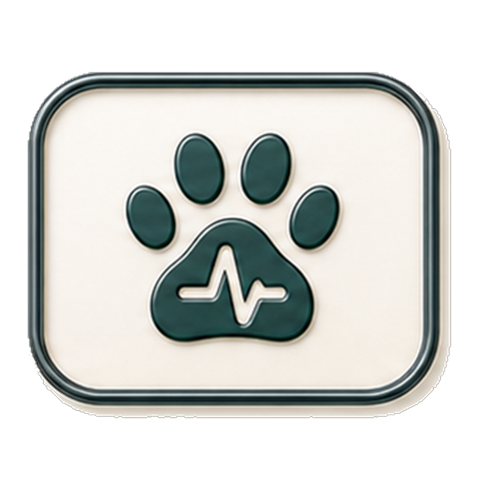
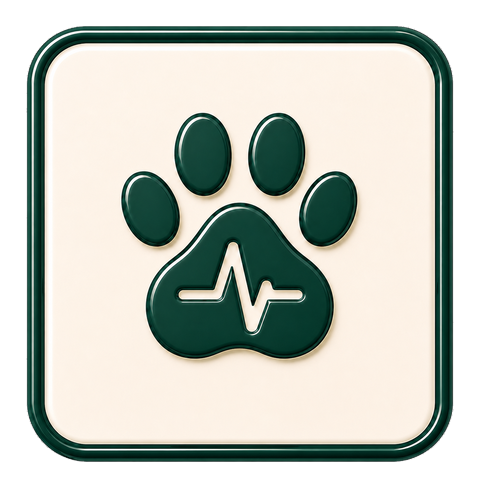
feat(hub): lote 2 COMPLETO (20/20 ceramicos) — ambientes, gestacao, brinquedos, casos-reais e conceitos integrados; pets-hub regenerado em tile quadrado; molduras grossas regeneradas (utensilios, disp-eletronicos, casos-reais); alinhamento dos tiles ancorado no topo (labels 1vs2 linhas); scale 1.3 r

diff --git a/screens/Education/KnowledgeHubScreen.js b/screens/Education/KnowledgeHubScreen.js
@@ -40,13 +40,13 @@ const FEATURED_ARTICLES = [...MICRO_BLOG_ARTICLES].sort(() => 0.5 - Math.random(
 // estilo 3D cerâmico da Home, símbolo solto em fundo transparente.
 // ─────────────────────────────────────────────────────────────────────────
 const PICTOGRAMS = {
-    // Seção 1 — Pessoas & Contexto (lote 2 em andamento: cerâmicos
-    // substituindo os antigos de traço P&B um a um)
+    // Seção 1 — Pessoas & Contexto (lote 2 completo: todos cerâmicos,
+    // normalizados no padrão condo-safety — cobertura 88.5%, aspecto 0.98)
     seguranca_idade: require('../../assets/illustrations/education-pictograms/pictogram-familia-fases.png'),
-    ambientes:       require('../../assets/illustrations/home-pictograms/icone_planta_baixa_ilustrativa.png'),
-    gestante_segura: require('../../assets/illustrations/home-pictograms/icone_gestacao_casa.png'),
-    pets:            require('../../assets/illustrations/education-pictograms/pictogram-pets-hub.png'), // cerâmico da Home, cópia normalizada (88.5%)
-    brinquedos_hub:  require('../../assets/illustrations/home-pictograms/icone_brinquedos_sem_casa.png'),
+    ambientes:       require('../../assets/illustrations/education-pictograms/pictogram-ambientes.png'),
+    gestante_segura: require('../../assets/illustrations/education-pictograms/pictogram-gestacao.png'),
+    pets:            require('../../assets/illustrations/education-pictograms/pictogram-pets-hub.png'),
+    brinquedos_hub:  require('../../assets/illustrations/education-pictograms/pictogram-brinquedos.png'),
     // Seções 2-5 — lote 1 do plano (15 assets). Descomentar conforme gerados:
     utensilios_rev:   require('../../assets/illustrations/education-pictograms/pictogram-utensilios-rev.png'),
     eletro_rev:       require('../../assets/illustrations/education-pictograms/pictogram-eletro-rev.png'),
@@ -65,7 +65,7 @@ const PICTOGRAMS = {
     guias_equipamentos: require('../../assets/illustrations/education-pictograms/pictogram-guias-equipamentos.png'),
 };
 const REAL_CASES_PICTOGRAM = require('../../assets/illustrations/education-pictograms/pictogram-casos-reais.png');
-const CONCEPTS_PICTOGRAM = require('../../assets/illustrations/education-pictograms/pictogram-conceitos-essenciais.png');
+const CONCEPTS_PICTOGRAM = require('../../assets/illustrations/education-pictograms/pictogram-conceitos.png');
 
 // Ids cujos assets são do formato CERÂMICO 3D (tile creme + moldura verde
 // embutidos no PNG, como na Home). Esses renderizam SEM NeoCard — o asset É
@@ -76,9 +76,10 @@ const CERAMIC_STYLE_IDS = new Set([
     'fire_prev', 'emergencias', 'primeiros_socorros_hub', 'kits_emergencia',
     'plantas', 'animais', 'produtos', 'riscos_fisicos', 'jardinagem', 'condo_safety',
     'lazer_mobilidade', 'guias_equipamentos',
-    // Lote 2 (seção 1) — adicionados conforme regenerados:
+    // Lote 2 (seção 1) — completo em 2026-06-11:
     'seguranca_idade',
-    'pets', // reaproveita o cerâmico da Home
+    'pets',
+    'ambientes', 'gestante_segura', 'brinquedos_hub',
 ]);
 
 export default function KnowledgeHubScreen({ navigation }) {
@@ -434,7 +435,8 @@ const s = StyleSheet.create({
     specialPictogramImage: {
         width: '100%',
         height: '100%',
-        transform: [{ scale: 1.3 }], // Aumentado em 30% visualmente
+        // (sem scale: os cerâmicos já vêm com cobertura 88.5%, sem padding
+        // interno — o scale 1.3 dos antigos P&B estouraria o wrapper)
     },
     radarTitle: {
         fontWeight: '800',
@@ -506,7 +508,9 @@ const s = StyleSheet.create({
     ceramicCell: {
         flex: 1,
         alignItems: 'center',
-        justifyContent: 'center',
+        // topo, não center: com labels de 1 vs 2 linhas, a centralização
+        // vertical fazia os tiles "flutuarem" desalinhados entre vizinhos
+        justifyContent: 'flex-start',
     },
     ceramicImage: {
         width: '100%',
